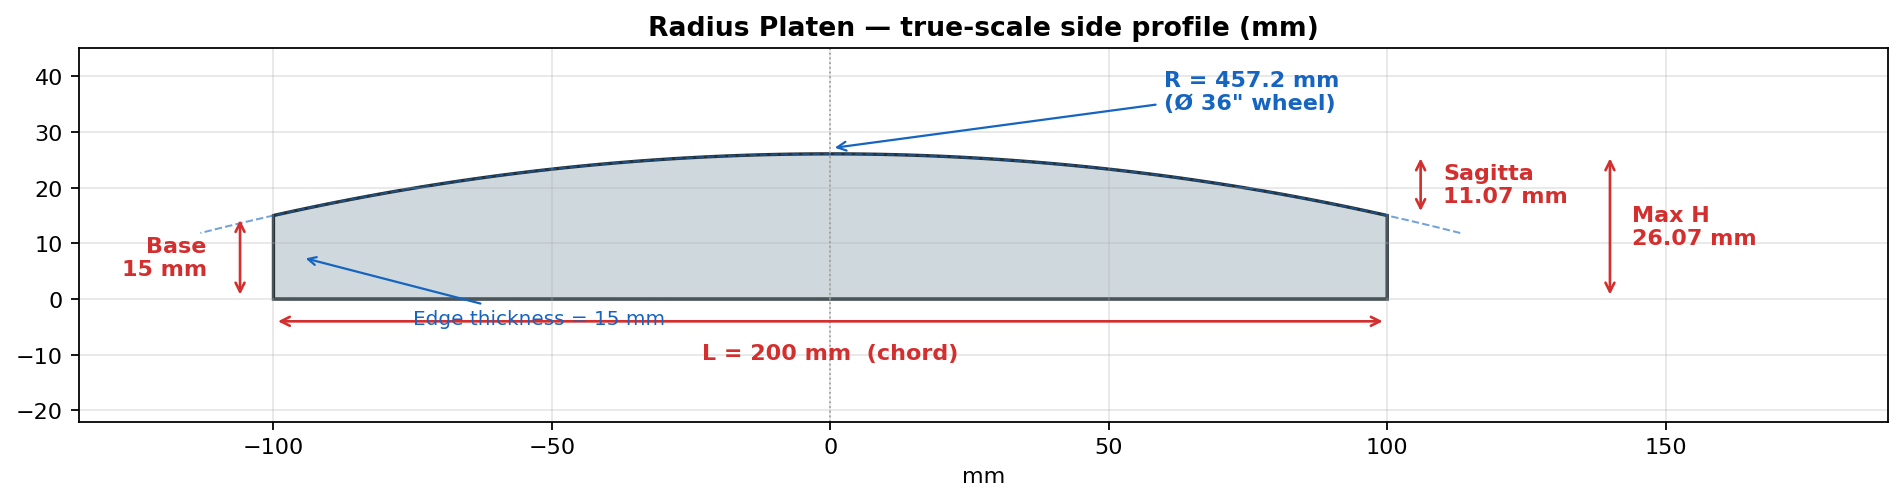
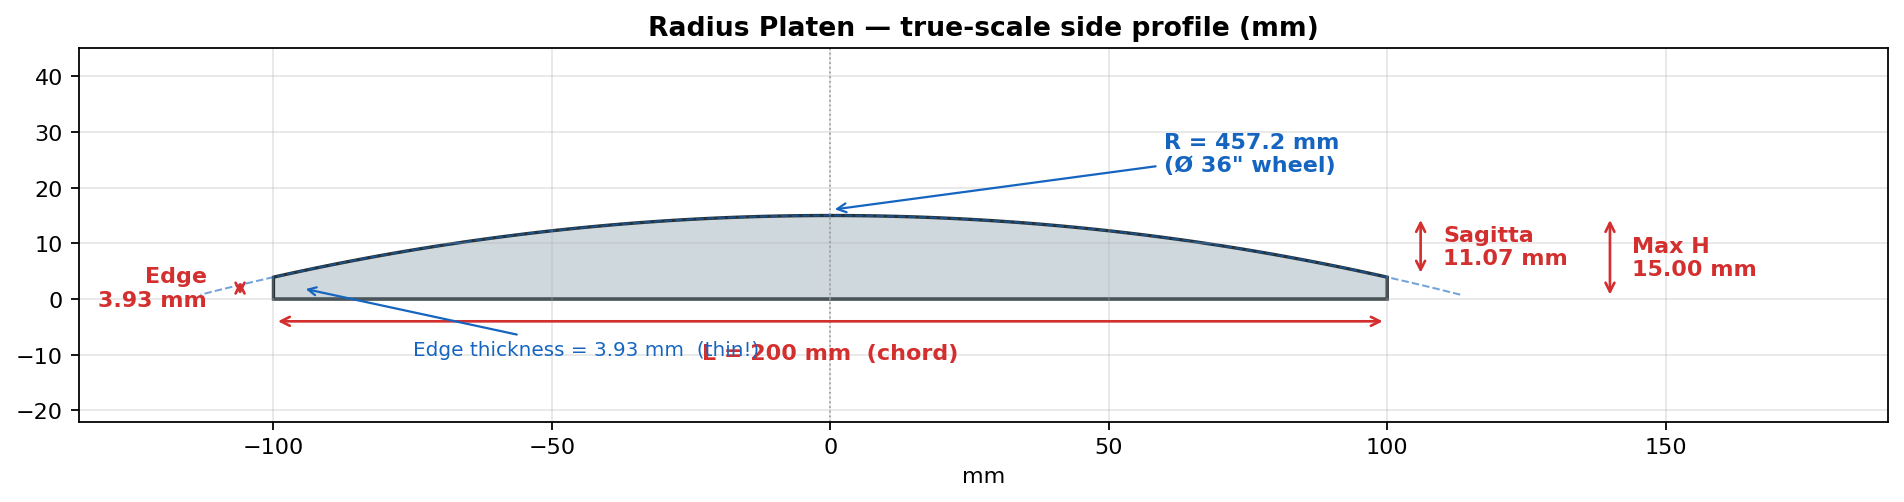
Update radius platen to 15 mm total max height
Constraint changed from 15 mm base + 11.07 mm crown (26.07 mm total)
to 15 mm total max height, giving 3.93 mm edge thickness.

https://claude.ai/code/session_01LNGcSepNHDBWTWkKp2G1ag

diff --git a/platen_sketch.py b/platen_sketch.py
@@ -1,12 +1,12 @@
 """3D isometric sketch of a radius platen for a belt grinder.
 
 Specs:
-  - Length (along belt travel):     200 mm (20 cm)
-  - Width  (across belt):            49 mm (4.9 cm)
-  - Base slab thickness:             15 mm (1.5 cm)
+  - Length (along belt travel):       200 mm (20 cm)
+  - Width  (across belt):              49 mm (4.9 cm)
+  - Total max height (center crown):   15 mm (1.5 cm)
   - Top arc: 36" (914.4 mm) diameter wheel  ->  R = 457.2 mm
-  - Sagitta (crown rise above slab): 11.07 mm
-  - Max total height (center):       26.07 mm
+  - Sagitta (crown rise above edges): 11.07 mm
+  - Edge thickness:                    3.93 mm
 """
 
 import numpy as np
@@ -16,13 +16,14 @@ from mpl_toolkits.mplot3d.art3d import Poly3DCollection
 # -------- Dimensions (mm) --------
 L = 200.0          # length (X)
 W = 49.0           # width  (Y)
-BASE = 15.0        # base slab thickness
+TOP_MAX = 15.0     # total max height at center (constraint)
 R = 457.2          # 36" diameter / 2
 SAG = R - np.sqrt(R**2 - (L/2)**2)   # ≈ 11.07 mm
-TOP_MAX = BASE + SAG
+BASE = TOP_MAX - SAG                  # edge thickness ≈ 3.93 mm
 
-print(f"Sagitta:     {SAG:.3f} mm")
-print(f"Total max H: {TOP_MAX:.3f} mm")
+print(f"Sagitta:        {SAG:.3f} mm")
+print(f"Edge thickness: {BASE:.3f} mm")
+print(f"Total max H:    {TOP_MAX:.3f} mm")
 
 # -------- Build the curved top surface --------
 nx, ny = 80, 12
@@ -83,12 +84,12 @@ def dim(p1, p2, txt, offset=(0,0,3), color='#d32f2f'):
 dim((-L/2, -8, 0), (L/2, -8, 0), f"L = 200 mm", offset=(0,-6,0))
 # Width
 dim((L/2+8, 0, 0), (L/2+8, W, 0), f"W = 49 mm", offset=(8,0,0))
-# Base height
-dim((-L/2-8, 0, 0), (-L/2-8, 0, BASE), f"Base = 15 mm", offset=(-30,0,-2))
+# Edge thickness
+dim((-L/2-8, 0, 0), (-L/2-8, 0, BASE), f"Edge = {BASE:.2f} mm", offset=(-30,0,-2))
 # Sagitta
 dim((0, W+6, BASE), (0, W+6, BASE+SAG), f"Sagitta = 11.07 mm", offset=(0,8,2))
 # Total max height
-dim((L/2+8, W, 0), (L/2+8, W, BASE+SAG), f"Max H = 26.07 mm", offset=(15,0,4))
+dim((L/2+8, W, 0), (L/2+8, W, BASE+SAG), f"Max H = 15.00 mm", offset=(15,0,4))
 
 # Radius callout
 ax.text(0, W/2, BASE+SAG+6, "Top arc: R = 457.2 mm  (Ø 36\" wheel)",
@@ -98,7 +99,7 @@ ax.text(0, W/2, BASE+SAG+6, "Top arc: R = 457.2 mm  (Ø 36\" wheel)",
 ax.set_xlabel('X — length (mm)')
 ax.set_ylabel('Y — width (mm)')
 ax.set_zlabel('Z — height (mm)')
-ax.set_title('Radius Platen — 36" wheel profile, 200 × 49 mm, 15 mm base',
+ax.set_title('Radius Platen — 36" wheel profile, 200 × 49 mm, 15 mm max height',
              fontsize=12, weight='bold')
 ax.set_box_aspect((L, W*2.5, (BASE+SAG)*4))   # exaggerate Z so curve is visible
 ax.view_init(elev=22, azim=-55)

diff --git a/platen_profile.py b/platen_profile.py
@@ -4,9 +4,10 @@ import matplotlib.pyplot as plt
 from matplotlib.patches import FancyArrowPatch
 
 L = 200.0
-BASE = 15.0
 R = 457.2
-SAG = R - np.sqrt(R**2 - (L/2)**2)
+SAG = R - np.sqrt(R**2 - (L/2)**2)   # 11.07 mm
+TOP_MAX = 15.0                        # constraint
+BASE = TOP_MAX - SAG                  # 3.93 mm edge thickness
 
 fig, ax = plt.subplots(figsize=(12, 4.5))
 
@@ -36,12 +37,12 @@ def vdim(y1, y2, x, txt, off=4, ha='left'):
             color='#d32f2f', fontsize=10, weight='bold')
 
 hdim(-L/2, L/2, -4, "L = 200 mm  (chord)")
-vdim(0, BASE, -L/2 - 6, "Base\n15 mm", off=-6, ha='right')
+vdim(0, BASE, -L/2 - 6, f"Edge\n{BASE:.2f} mm", off=-6, ha='right')
 vdim(BASE, BASE+SAG, L/2 + 6, "Sagitta\n11.07 mm")
-vdim(0, BASE+SAG, L/2 + 40, "Max H\n26.07 mm")
+vdim(0, BASE+SAG, L/2 + 40, "Max H\n15.00 mm")
 
 # Edge thickness callout
-ax.annotate('Edge thickness = 15 mm', xy=(-L/2+5, BASE/2),
+ax.annotate(f'Edge thickness = {BASE:.2f} mm  (thin!)', xy=(-L/2+5, BASE/2),
             xytext=(-L/2+25, BASE/2 - 12),
             arrowprops=dict(arrowstyle='->', color='#1565c0'),
             color='#1565c0', fontsize=9)
